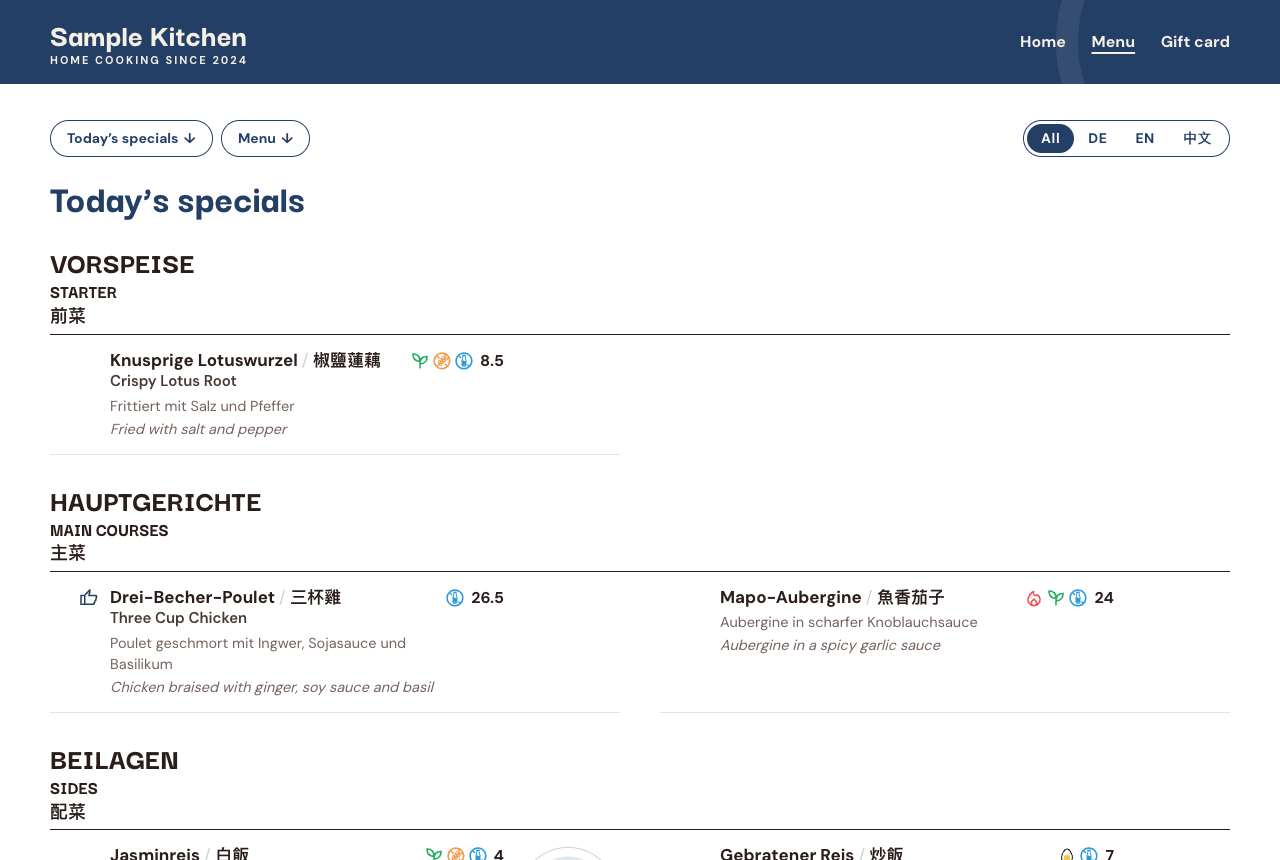
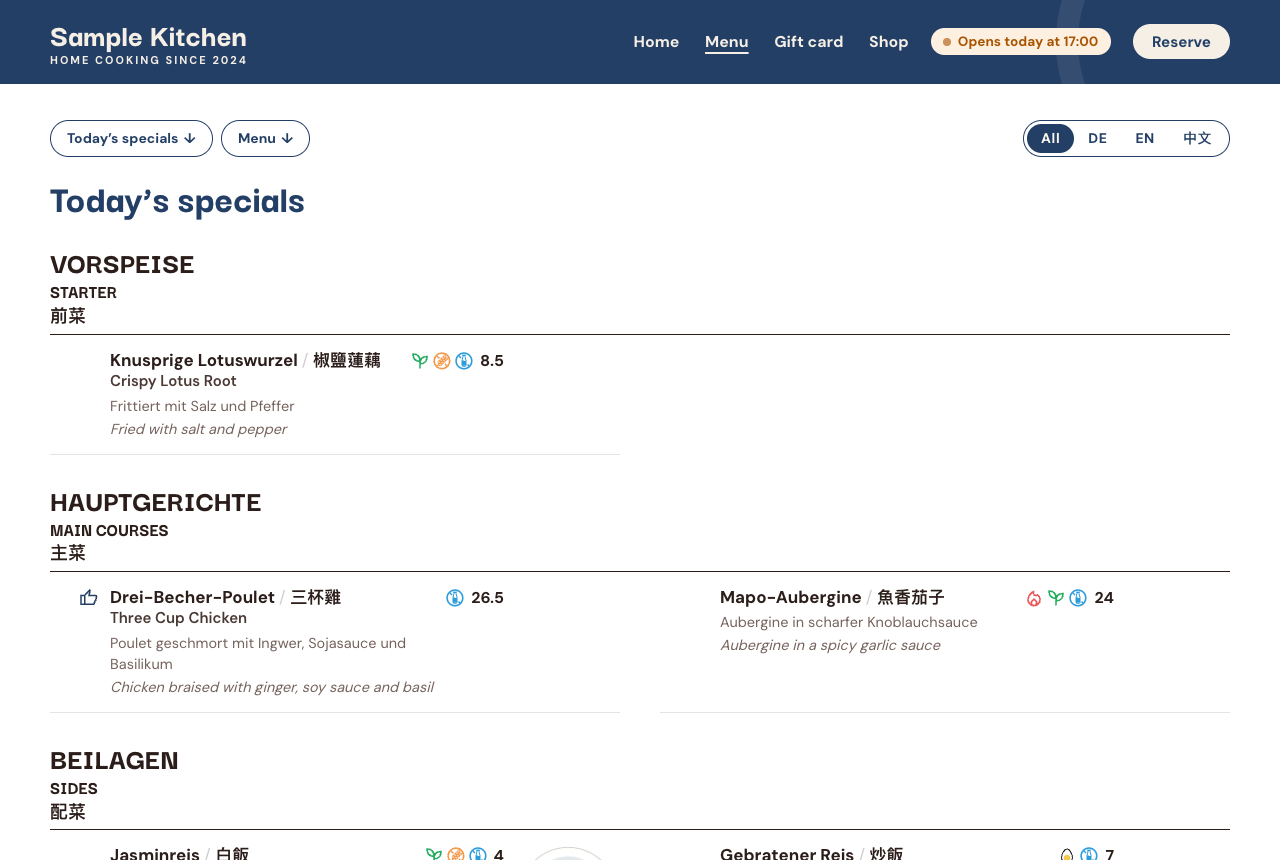
MenuDash Theme 1.15.0: sticky header that turns into slim glass, Reserve button, meat-origin link in the footer

Changed region(s): [[0.5625, 0.0302, 0.9688, 0.0907], [0.5, 0.0302, 0.5312, 0.0605]]

diff --git a/menudash-theme/style.css b/menudash-theme/style.css
@@ -2,7 +2,7 @@
 Theme Name: MenuDash Theme
 Theme URI: https://github.com/yingshiuan/menudash-theme
 Description: A restaurant website theme made for the MenuDash plugin: the menu, today's specials, opening hours, holidays, gift cards and your restaurant's details come from MenuDash, and the theme shows them in a warm, simple design. Home page sections, header and footer are edited in Appearance → Editor; colours and fonts under Styles. English and German included.
-Version: 1.14.0
+Version: 1.15.0
 Requires at least: 6.5
 Tested up to: 7.1
 Requires PHP: 7.4
@@ -437,3 +437,44 @@ h1, h2 { overflow-wrap: break-word; text-wrap: balance; }
 .wp-block-navigation .mdt-lang.is-current a { opacity: 1; font-weight: 800; text-decoration: none; }
 .wp-block-navigation__responsive-container:not(.is-menu-open) .mdt-lang + .mdt-lang { margin-left: -1rem; }
 .wp-block-navigation__responsive-container:not(.is-menu-open) .mdt-lang + .mdt-lang::before { content: "|"; opacity: .45; margin-right: .6rem; }
+
+/* ---- Header: stays at the top; once the page scrolls, a slim bar in frosted glass of the
+   main colour (smaller logo, no tagline or holiday notice). Scrolling down slides it away,
+   scrolling up brings it back (theme.js), like the phone action bar. MenuDash measures it, so
+   its own sticky bar sits right under it. ---- */
+header.wp-block-template-part:has(> .mdt-band) {
+	position: sticky; top: var(--wp-admin--admin-bar--height, 0px); z-index: 45;
+	transition: transform .3s ease;
+}
+@media (max-width: 600px) { header.wp-block-template-part:has(> .mdt-band) { top: 0; } } /* the admin bar scrolls away there */
+header.wp-block-template-part.is-away { transform: translateY(calc(-100% - 60px)); }
+header.wp-block-template-part > .mdt-band { transition: padding .25s ease, background-color .25s ease, box-shadow .25s ease; }
+header.mdt-scrolled > .mdt-band {
+	padding-top: .55rem !important; padding-bottom: .55rem !important;
+	background-color: color-mix(in srgb, var(--wp--preset--color--primary) 84%, transparent) !important;
+	-webkit-backdrop-filter: blur(14px) saturate(1.4); backdrop-filter: blur(14px) saturate(1.4);
+	box-shadow: 0 6px 24px rgba(0, 0, 0, .18);
+}
+header.mdt-scrolled > :not(.mdt-band) { display: none; } /* the holiday notice: at the top of the page only */
+header.mdt-scrolled .mdt-tagline { display: none; }
+header.mdt-scrolled .mdt-seal::before, header.mdt-scrolled.mdt-seal::before, header.mdt-scrolled > .mdt-seal::before { opacity: 0; }
+header .mdt-band .wp-block-site-logo img { transition: width .25s ease; }
+header.mdt-scrolled .mdt-band .wp-block-site-logo img { width: 96px !important; }
+header.mdt-scrolled .mdt-band .wp-block-site-title { font-size: 1.5rem !important; }
+/* One button to book, as a cream pill; the "open now" badge beside it on wide screens. */
+.mdt-head-end { align-items: center; }
+.mdt-head-cta { margin: 0; }
+.mdt-head-cta .wp-block-button__link {
+	padding: .55em 1.25em; border: 0; border-radius: 999px; background: var(--wp--preset--color--cream); color: var(--wp--preset--color--primary);
+	font-size: .95rem; font-weight: 700; line-height: 1.2; white-space: nowrap; text-decoration: none;
+}
+.mdt-head-cta .wp-block-button__link:hover { background: #fff; text-decoration: none; }
+.mdt-band .mdt-head-open { margin: 0; font-size: .85rem; white-space: nowrap; }
+@media (max-width: 1279px) { .mdt-band .mdt-head-open, .mdt-band .wp-block-buttons.mdt-head-cta { display: none; } } /* room for the menu first */
+body.home header:not(.mdt-scrolled) .mdt-band .mdt-head-open { display: none; } /* the hero shows it there */
+
+@media (prefers-reduced-motion: reduce) { header.wp-block-template-part, header.wp-block-template-part > .mdt-band, header .mdt-band .wp-block-site-logo img { transition: none; } }
+/* With the phone menu open: no glass and no movement on the header, or the open menu would be
+   held inside the header bar (a backdrop filter or transform contains fixed children). */
+.has-modal-open header.wp-block-template-part { transform: none; }
+.has-modal-open header.mdt-scrolled > .mdt-band { -webkit-backdrop-filter: none; backdrop-filter: none; background-color: var(--wp--preset--color--primary) !important; }

diff --git a/menudash-theme/assets/js/theme.js b/menudash-theme/assets/js/theme.js
@@ -126,6 +126,7 @@
       busy = false;
       var y = scrollY, moved = y - last;
       if (Math.abs(moved) < 8) return; // Small jitters (a finger resting) change nothing.
+      if (document.documentElement.classList.contains("has-modal-open")) return; // the phone menu is open
       var end = innerHeight + y >= document.documentElement.scrollHeight - 60;
       var hide = moved > 0 && y > 120 && !end;
       if (hide !== bar.classList.contains("is-away")) bar.classList.toggle("is-away", hide);
@@ -136,8 +137,25 @@
     bar.addEventListener("focusin", function () { bar.classList.remove("is-away"); }); // Keyboard users always reach it.
   }
 
+  /* ---------- Header: slim glass once the page scrolls (style.css) ---------- */
+  function slimHeader() {
+    var head = document.querySelector("header.wp-block-template-part");
+    if (!head || !head.querySelector(":scope > .mdt-band")) return;
+    var busy = false;
+    function update() {
+      busy = false;
+      var slim = scrollY > 24;
+      if (slim !== head.classList.contains("mdt-scrolled")) {
+        head.classList.toggle("mdt-scrolled", slim);
+        dispatchEvent(new Event("resize")); // MenuDash's bar and the phone menu follow its new height
+      }
+    }
+    addEventListener("scroll", function () { if (!busy) { busy = true; requestAnimationFrame(update); } }, { passive: true });
+    update();
+  }
+
   function start() {
-    makeTabs(); placeMenu(); mapsOnClick(); hideOnScroll(".mdt-actionbar");
+    makeTabs(); placeMenu(); mapsOnClick(); hideOnScroll(".mdt-actionbar"); slimHeader(); hideOnScroll("header.wp-block-template-part");
     // Measured again right before opening: the page may have scrolled.
     document.addEventListener("click", function (e) {
       if (e.target.closest && e.target.closest(".wp-block-navigation__responsive-container-open")) placeMenu();

diff --git a/menudash-theme/inc/blocks.php b/menudash-theme/inc/blocks.php
@@ -15,7 +15,7 @@
  *   menudash-theme/social       variant="icons": icons for the social links from MenuDash → Restaurant; variant="follow": the Instagram button
  *   menudash-theme/delivery     the whole delivery column; nothing without an order link
  *   menudash-theme/map          the Google Maps map, loaded on request
- *   menudash-theme/legal        "© Company · Legal notice · Privacy" (each link when its page exists)
+ *   menudash-theme/legal        "© Company · Legal notice · Privacy · meat origin" (each link when its page exists)
  *   menudash-theme/provider     who runs the website: company, address, phone, e-mail (legal notice)
  *   menudash-theme/picks        the dishes marked Recommended in the menu, with photos; with
  *                               MenuDash 2.3 its block menudash/picks, which the pattern now uses
@@ -557,14 +557,48 @@ function mdt_legal_page() {
 	return null;
 }
 
+/**
+ * The published page that shows the meat and fish origin (MenuDash's [menudash_origin], e.g. a
+ * "Fleisch-Deklaration" page), or null: linked in the footer's small print. Looked up once a
+ * day, and again when a page is saved, published, unpublished or put in the bin.
+ */
+function mdt_origin_page() {
+	$id = get_transient( 'mdt_origin_page' );
+	if ( false === $id ) {
+		$id = 0;
+		foreach ( get_posts( array( 'post_type' => 'page', 'post_status' => 'publish', 'numberposts' => 10, 's' => 'menudash_origin' ) ) as $p ) {
+			if ( has_shortcode( $p->post_content, 'menudash_origin' ) ) {
+				$id = $p->ID;
+				break;
+			}
+		}
+		set_transient( 'mdt_origin_page', $id, DAY_IN_SECONDS );
+	}
+	$page = $id ? get_post( (int) $id ) : null;
+	return $page && 'publish' === $page->post_status ? $page : null;
+}
+
+add_action(
+	'transition_post_status', // every save, and a page published, unpublished or put in the bin
+	function ( $new_status, $old_status, $post ) {
+		if ( 'page' === $post->post_type ) {
+			delete_transient( 'mdt_origin_page' );
+		}
+	},
+	10,
+	3
+);
+
 function mdt_block_legal() {
 	$id    = (int) get_option( 'wp_page_for_privacy_policy' );
 	$page  = $id ? get_post( $id ) : null; // get_post( 0 ) would be the current page.
 	$link  = $page && 'publish' === $page->post_status ? '<a href="' . esc_url( get_permalink( $page ) ) . '">' . esc_html__( 'Privacy', 'menudash-theme' ) . '</a>' : '';
 	$legal = mdt_legal_page();
 	$legal = $legal ? '<a href="' . esc_url( get_permalink( $legal ) ) . '">' . esc_html__( 'Legal notice', 'menudash-theme' ) . '</a>' : '';
-	$owner = '' !== mdt_d( 'company' ) ? mdt_d( 'company' ) : ( '' !== mdt_d( 'name' ) ? mdt_d( 'name' ) : get_bloginfo( 'name' ) );
-	$parts = array_filter( array( '' !== $owner ? '© ' . esc_html( $owner ) : '', $legal, $link ) );
+	$origin = mdt_origin_page();
+	$origin = $origin ? '<a href="' . esc_url( get_permalink( $origin ) ) . '">' . esc_html( get_the_title( $origin ) ) . '</a>' : '';
+	$owner  = '' !== mdt_d( 'company' ) ? mdt_d( 'company' ) : ( '' !== mdt_d( 'name' ) ? mdt_d( 'name' ) : get_bloginfo( 'name' ) );
+	$parts  = array_filter( array( '' !== $owner ? '© ' . esc_html( $owner ) : '', $legal, $link, $origin ) );
 	return $parts ? '<p class="alignwide" style="font-size:0.8125rem">' . implode( ' · ', $parts ) . '</p>' : '';
 }
 

diff --git a/menudash-theme/patterns/header.php b/menudash-theme/patterns/header.php
@@ -1,6 +1,6 @@
 <?php
 /**
- * Title: Header (coloured band)
+ * Title: Header (coloured band; slim glass bar while scrolling)
  * Slug: menudash-theme/header
  * Categories: header, menudash-theme
  * Block Types: core/template-part/header
@@ -28,7 +28,18 @@ foreach ( get_posts( array( 'post_type' => 'wp_navigation', 'numberposts' => 20,
 <!-- wp:site-tagline {"className":"mdt-tagline","style":{"typography":{"fontSize":"0.6875rem","fontWeight":"700","textTransform":"uppercase","lineHeight":"1"}}} /-->
 </div>
 <!-- /wp:group -->
+<!-- wp:group {"className":"mdt-head-end","style":{"spacing":{"blockGap":"1.4rem"}},"layout":{"type":"flex","flexWrap":"nowrap","justifyContent":"right"}} -->
+<div class="wp-block-group mdt-head-end">
 <!-- wp:navigation {<?php echo $ref; ?>"overlayBackgroundColor":"primary","overlayTextColor":"cream","layout":{"type":"flex","justifyContent":"right"},"style":{"spacing":{"blockGap":"1.6rem"}}} /-->
+<?php // With MenuDash Restaurant: open now, and one button to book (wide screens; phones have the action bar). ?>
+<!-- wp:menudash/open {"className":"mdt-head-open"} /-->
+<!-- wp:buttons {"className":"mdt-head-cta"} -->
+<div class="wp-block-buttons mdt-head-cta">
+<?php echo mdt_bound_button( 'reserve', trim( str_replace( '· %s', '', __( 'Reserve · %s', 'menudash-theme' ) ) ) ); // phpcs:ignore -- block markup, escaped there ?>
+</div>
+<!-- /wp:buttons -->
+</div>
+<!-- /wp:group -->
 </div>
 <!-- /wp:group -->
 </div>

diff --git a/README.md b/README.md
@@ -18,9 +18,13 @@ MenuDash holds everything the restaurant keeps up to date: the menu, today's spe
 | About us | your text, and the Instagram button from MenuDash |
 | Gift card | shows by itself while MenuDash takes gift card orders |
 | Visit us / Delivery, with a map | address, phone, getting here, delivery link and ordering times from MenuDash; the map loads only after a click |
-| Footer | address (opens Google Maps), phone and e-mail, social icons (each link entered under MenuDash → Restaurant: Instagram, Facebook, Google, Tripadvisor, TikTok, YouTube, WhatsApp), getting here, opening hours, "© Company · Legal notice · Privacy" (each link once its page exists) |
+| Footer | address (opens Google Maps), phone and e-mail, social icons (each link entered under MenuDash → Restaurant: Instagram, Facebook, Google, Tripadvisor, TikTok, YouTube, WhatsApp), getting here, opening hours, "© Company · Legal notice · Privacy · meat origin" (each link once its page exists; the last one is the published page with MenuDash's `[menudash_origin]`, e.g. *Fleisch-Deklaration*) |
 
-On phones a floating bar in frosted glass offers **Call · Directions · Menu**; it slides away while guests scroll down to read and comes back when they scroll up. On the menu page, the filter and category bar turns to the same glass once it sticks to the top, and with MenuDash's guest list the + buttons and the back-to-top button match it. The menu page (any page with `[menudash]`) gets a wide layout by itself: the lunch menu (today, with the whole week one tap away) and today's specials above the menu, jump buttons with one language switch at the top, and a back-to-top button while reading the menu.
+**The header** stays at the top: at the start of a page it's the coloured band with the logo, tagline and menu; once the guest scrolls, it becomes a slim bar in frosted glass (smaller logo, no tagline), slides away while scrolling down and comes back when scrolling up. On wide screens (from 1280 pixels) it also has **Reserve** as a pill button and the "Open now" badge (with MenuDash Restaurant; on the home page the badge joins once the hero's own badge is scrolled away). On the menu page, MenuDash's filter bar sits right under it.
+
+<img src="docs/screenshot-header.png" alt="The menu page while scrolling: the slim glass header with Reserve and Open now, MenuDash's filter bar right under it" width="720">
+
+On phones a floating bar in frosted glass offers **Call · Directions · Menu**; it slides away while guests scroll down to read and comes back when they scroll up. On the menu page, the filter and category bar turns to the same glass once it sticks to the top, and with MenuDash's guest selection the + buttons and the back-to-top button match it. The menu page (any page with `[menudash]`) gets a wide layout by itself: the lunch menu (today, with the whole week one tap away) and today's specials above the menu, jump buttons with one language switch at the top, and a back-to-top button while reading the menu.
 
 Pages with another MenuDash part (gift card form, shop, opening hours, contact, a pattern made of them) get the same width as the menu by themselves, without the specials; pages of plain text, such as the legal notice, keep a narrower, easy-to-read column. A layout you pick for a page in the editor always wins (*Wide page (menu)*, *Wide page (gift card, shop, visit us)*).
 
